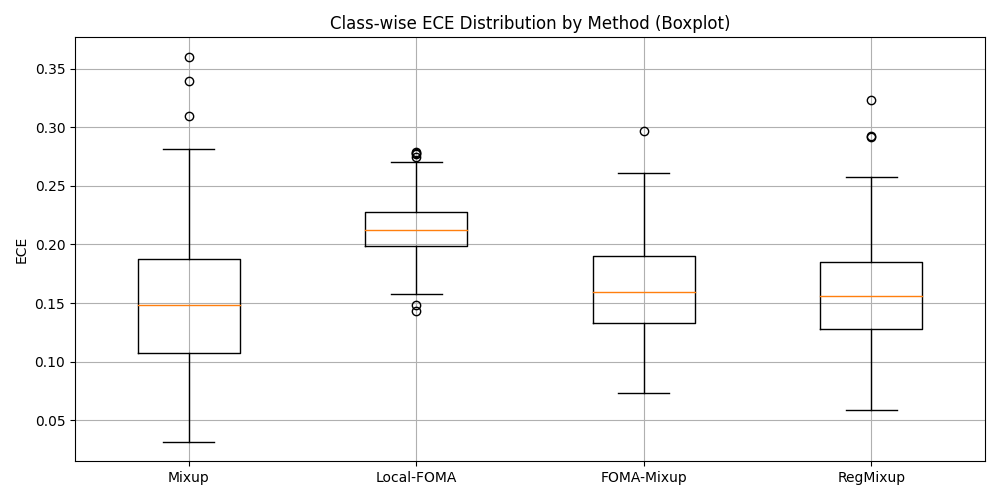
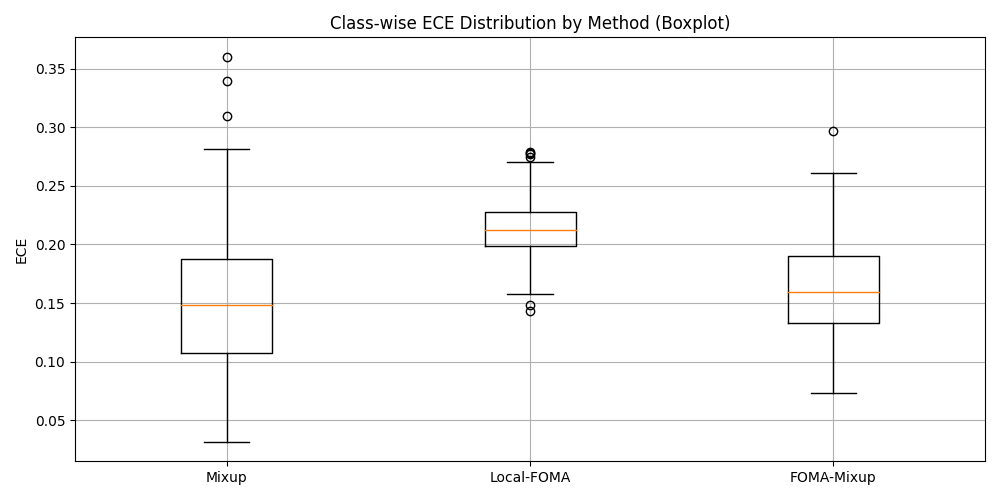
a

diff --git a/ece.py b/ece.py
@@ -41,7 +41,7 @@ def main():
     
     all_classwise_ece = {}
 
-    for augment in ["Mixup", "Local-FOMA", "FOMA-Mixup", "RegMixup"]:
+    for augment in ["Mixup", "Local-FOMA", "FOMA-Mixup"]:
         print(f"\n==> Test with {augment} ...")
         # Model
         if model_type == "resnet18": model = ResNet18().to(device)

diff --git a/src/utils.py b/src/utils.py
@@ -30,7 +30,6 @@ from src.methods.svd import compute_almp_loss_svd
 from src.methods.foma import compute_foma_loss
 from src.methods.fomix import *
 from src.methods.hybrid import *
-from src.models.wide_resnet import Wide_ResNet
 
 def ent_augment_mixup(x, y, model, alpha_max, num_classes, eps=1e-8):
     """
